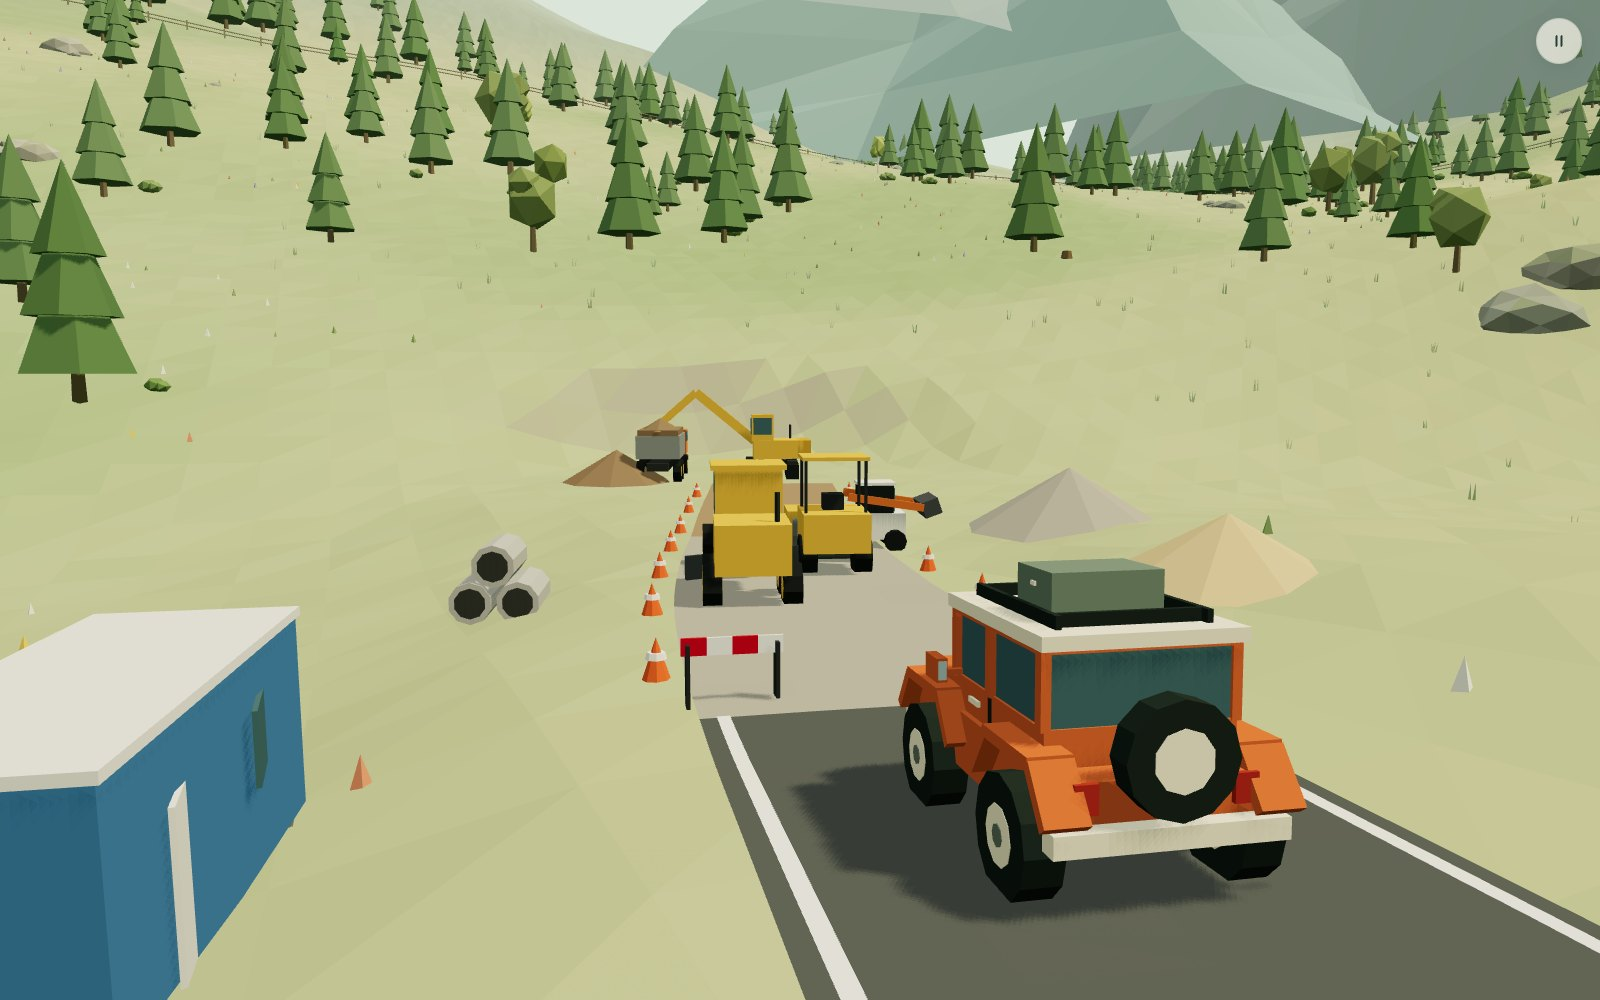
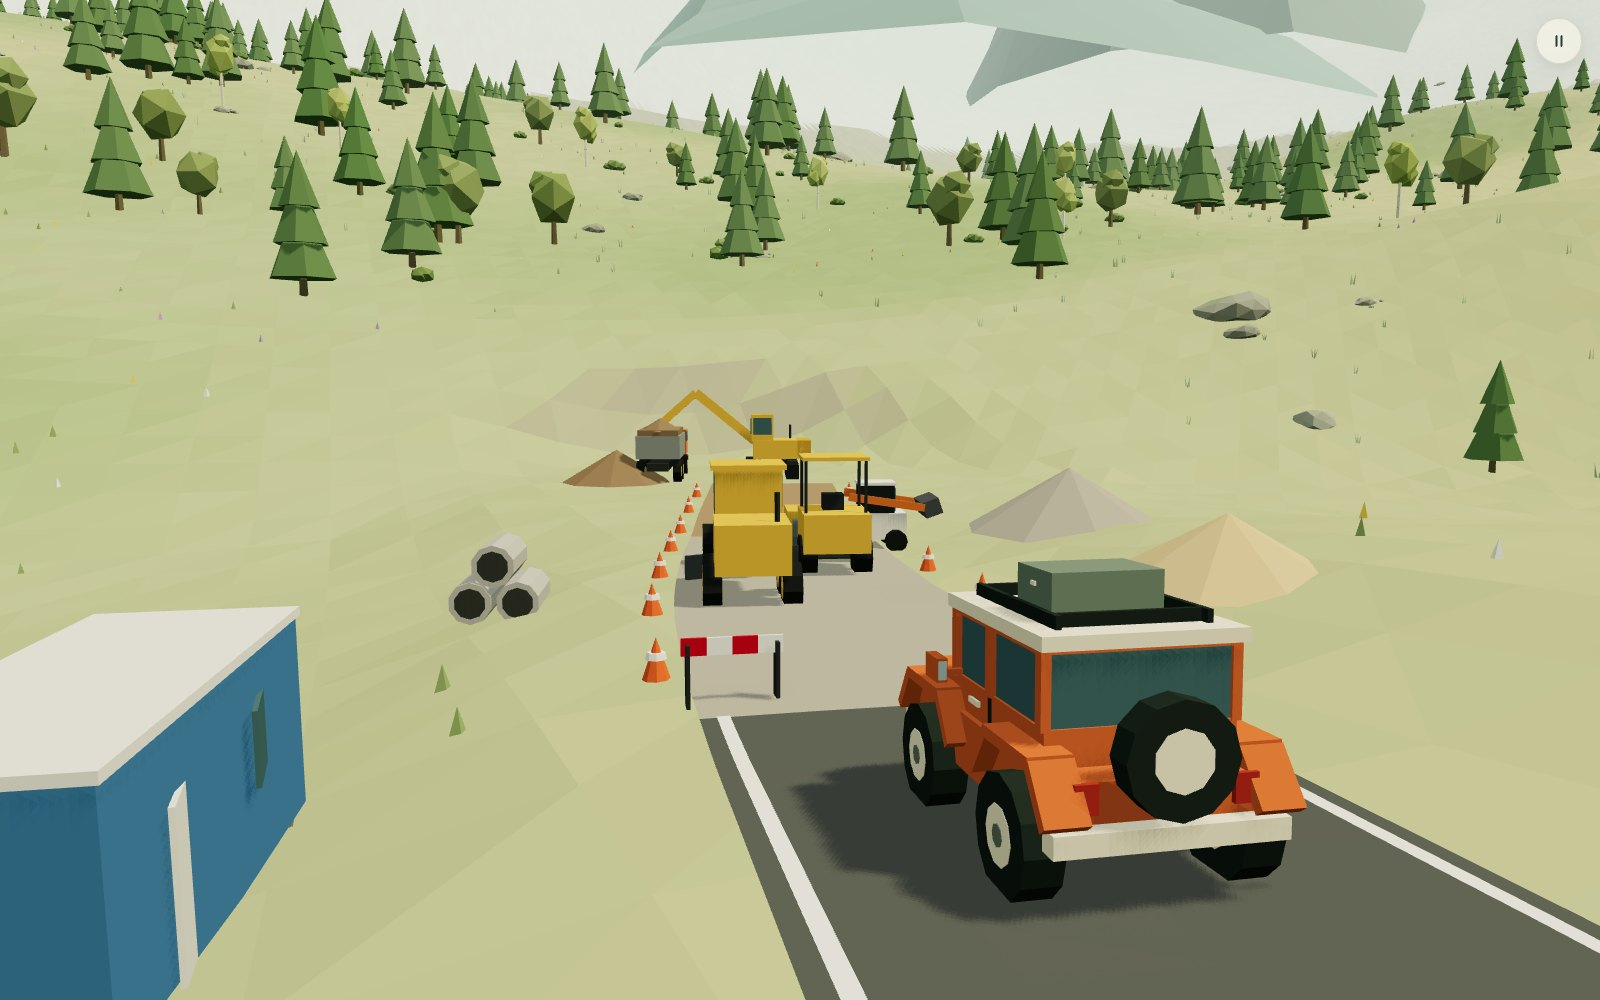
Update the README and screenshots for the uplands, the farm, the new animals, the emergency vehicles and the roof tent

diff --git a/README.md b/README.md
@@ -1,6 +1,6 @@
 # Nowhere to Be
 
-A relaxed low-poly driving game that runs in the browser. Take a little off-roader around a mountain valley at your own pace. There are no timers, no score and nothing to win. I made it for my son and me to explore together.
+A relaxed low-poly driving game that runs in the browser. Take a little off-roader around a mountain valley and up into the hills around it at your own pace. There are no timers, no score and nothing to win. I made it for my son and me to explore together.
 
 Play it at [nowhere-to-be.jarkovsky.com](https://nowhere-to-be.jarkovsky.com).
 
@@ -23,7 +23,15 @@ Play it at [nowhere-to-be.jarkovsky.com](https://nowhere-to-be.jarkovsky.com).
   <img src="docs/roadworks.jpg" width="49%" alt="Roadworks on the new road: a roller, a grader, an excavator and a dump truck">
 </p>
 <p>
-  <img src="docs/garage.jpg" width="49%" alt="Choosing a colour and roof items, with the car shown beside the menu">
+  <img src="docs/summit.jpg" width="49%" alt="Parked in the snow below the lookout tower on the summit">
+  <img src="docs/fields.jpg" width="49%" alt="The upland farm: a tractor ploughing with gulls behind it, next to a rapeseed field">
+</p>
+<p>
+  <img src="docs/wolves.jpg" width="49%" alt="A pack of three wolves stopping to watch the car">
+  <img src="docs/ambulance.jpg" width="49%" alt="An ambulance with its blue lights on, coming along the trail">
+</p>
+<p>
+  <img src="docs/garage.jpg" width="49%" alt="Choosing a colour and roof items, with the roof tent open on the car">
   <img src="docs/scrapbook.jpg" width="49%" alt="The pause menu's scrapbook of places and animals">
 </p>
 
@@ -58,11 +66,12 @@ To play on your phone from your own computer, run `npm run dev` and open the **N
 ## Things to find
 
 - **Places.** A waterfall, a farm, a fire tower, a windmill, a jetty you can drive onto, a mountain hut, a line of old concrete bunkers, a chapel, a railway halt, roadworks and a helipad. Driving past them adds stickers to your scrapbook, which you'll find in the pause menu.
-- **Animals.** Deer, sheep, cows, a rabbit, a fox, ducks, geese, an eagle, fish that jump in the lake and an owl that only comes out at night.
-- **Things on the move.** A railbus runs between the halt and a tunnel in the hills, and the level crossing closes while it passes. At the roadworks an excavator loads a dump truck while a roller, a grader and a skid steer loader work on the new road. A camper van, a pickup, a saloon and a bus drive the trail.
-- **Side tracks.** Narrow dirt tracks lead off the main trail to the farm, the tower, the windmill and up a hairpin to the hut, a path follows the lake shore, and a new road is being built to the south.
-- **The garage.** Choose an off-roader, a pickup, a camper van, a saloon or a tractor, then a colour, roof items and a horn.
-- **Garden gnomes.** Ten are hidden around the valley, some of them far off the trail. Finding them all unlocks something for the car.
+- **The uplands.** Past the valley rim the land levels out into uplands. To the north-west a track climbs round three hairpins to a snowy summit with a lookout tower, the north is rocky, and in a pass to the south-east there is a small farm with fields.
+- **Animals.** Deer, sheep, cows, chickens, a rabbit, foxes (one hunts mice by the fields), ducks, geese, an eagle, fish that jump in the lake, a pack of wolves below the summit and an owl that only comes out at night.
+- **Things on the move.** A railbus runs between the halt and a tunnel in the hills, and the level crossing closes while it passes. At the roadworks an excavator loads a dump truck while a roller, a grader and a skid steer loader work on the new road. Two tractors plough and mow the upland fields. A camper van, a pickup, a saloon and a bus drive the trail, and now and then an ambulance or a fire engine comes by with its blue lights on while the others pull over.
+- **Side tracks.** Narrow dirt tracks lead off the main trail to the farm, the tower, the windmill, the summit, the upland farm and up a hairpin to the hut, a path follows the lake shore, and a new road is being built to the south.
+- **The garage.** Choose an off-roader, a pickup, a camper van, a saloon or a tractor, then a colour, roof items and a horn. The roof tent opens when the car has been parked for a moment.
+- **Garden gnomes.** Ten are hidden around the valley, some of them far off the trail. Each one you find fills in a row of gnomes on screen, so you can see how many are left without reading. Finding them all unlocks something for the car.
 - **A few secrets.** Try the horn in the tunnel, near the animals, at passing cars and the train, and at the helipad. Keep an eye on the snow, too.
 
 Progress is saved in your browser.
@@ -71,10 +80,10 @@ Progress is saved in your browser.
 
 Everything is generated in code with [Three.js](https://threejs.org) and Web Audio. There are no model, texture or sound files.
 
-- **Terrain:** a height field built from layered noise and a few hand-placed landforms: knolls, a flat-topped hill, rocky ridges and a ledge for the waterfall. It is fine on the valley floor and coarse under the distant peaks. The trails are levelled across their width, the railway climbs at an even grade on embankments and through a cutting, the creek is carved into the ground, and buildings sit on flattened pads, so nothing floats or sinks. A test checks there are no cliffs on the valley floor.
+- **Terrain:** a height field built from layered noise and a few hand-placed landforms: knolls, a flat-topped hill, rocky ridges, a summit, flattened farmland and a ledge for the waterfall. Grass gives way to stony ground and then snow with height. It is fine everywhere you can drive and coarse under the distant peaks. The trails are levelled across their width, the railway climbs at an even grade on embankments and through a cutting, the creek is carved into the ground, and buildings sit on flattened pads, so nothing floats or sinks. A test checks there are no cliffs on the valley floor.
 - **Driving:** an arcade model with real velocity, tyre grip per surface, hill slowdown and soft collisions. Each tyre is settled onto the terrain triangle beneath it, within the travel its suspension allows.
 - **Camera:** a spring arm that pulls in when rock comes between it and the car, so the tunnel and cliffs never swallow the view. Drag to swing it round; it drifts back behind the car when you let go.
-- **Performance:** cheap Lambert materials, merged and instanced meshes, one shadow-casting light, a 60 fps cap, no rendering while paused, and a resolution that adapts to the device.
+- **Performance:** cheap Lambert materials, merged and instanced meshes, ground and scenery split into tiles so whatever is out of view is skipped, small details hidden when far away, one shadow-casting light, a 60 fps cap, no rendering while paused, and a resolution that adapts to the device.
 
 ```
 src/
